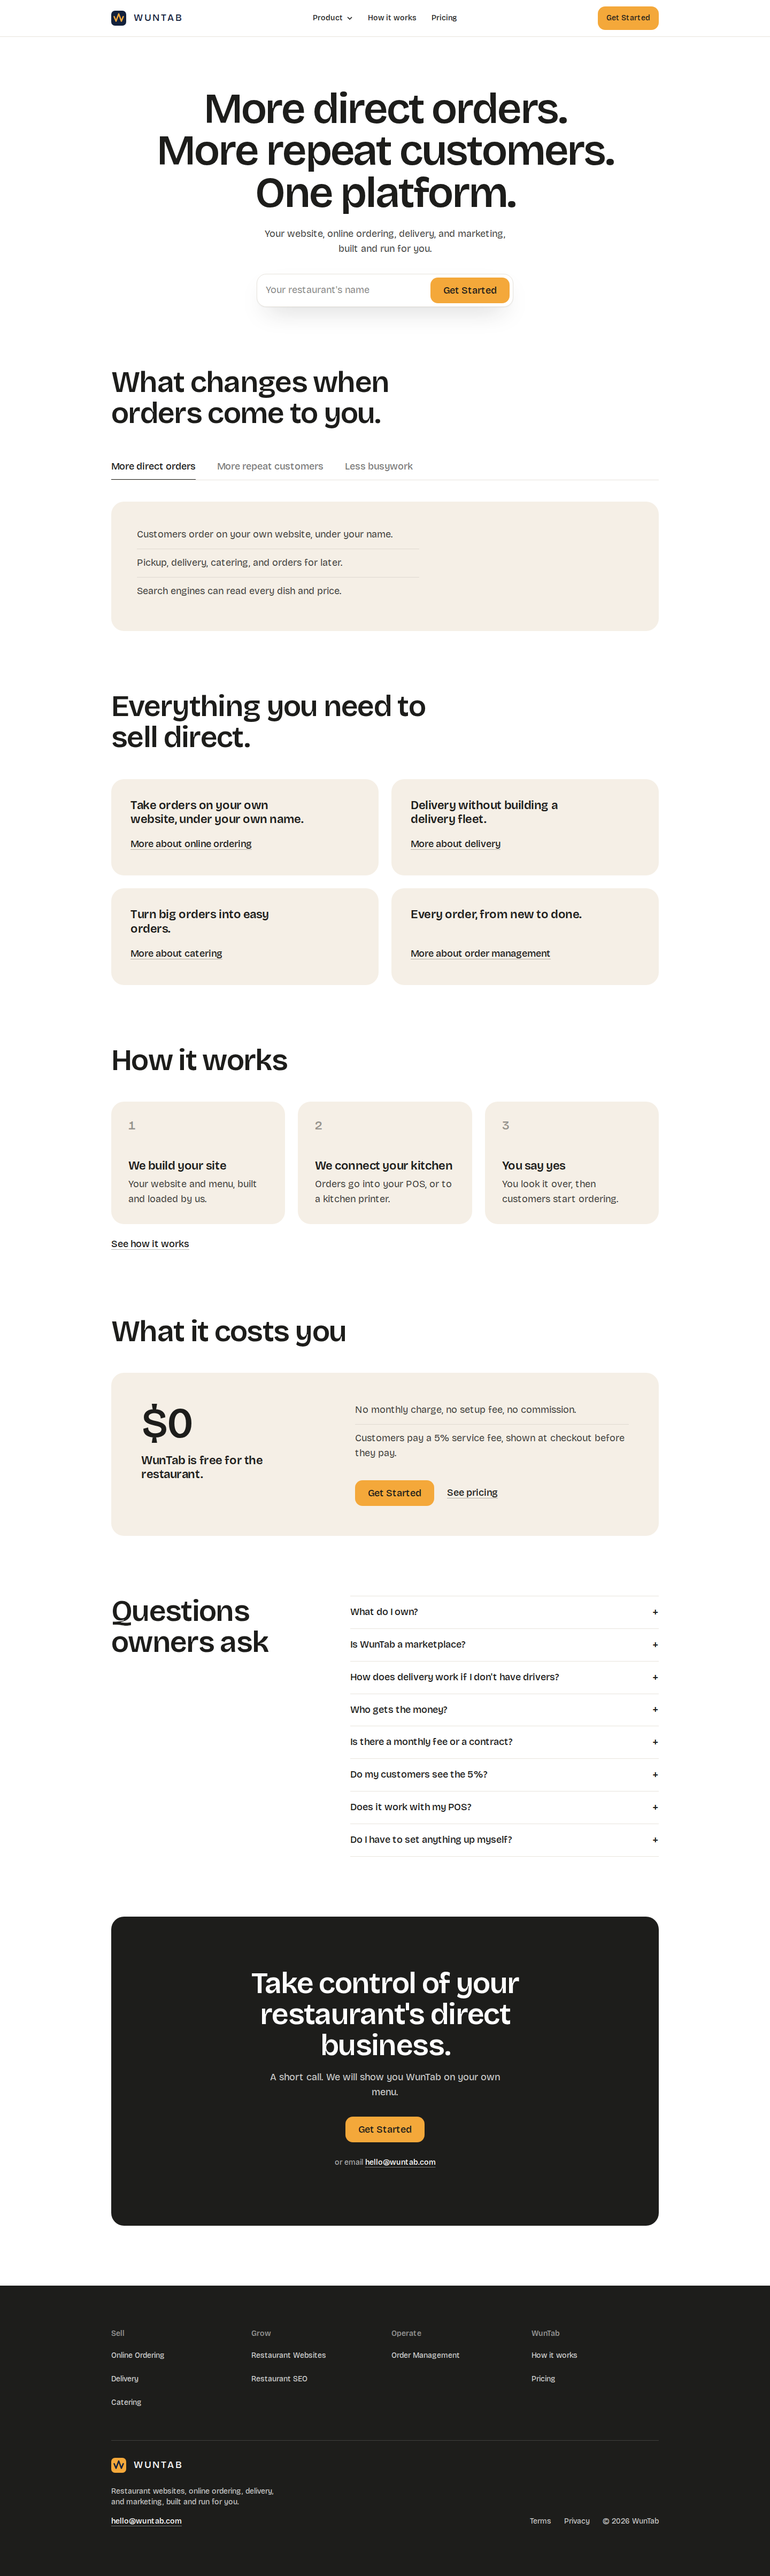
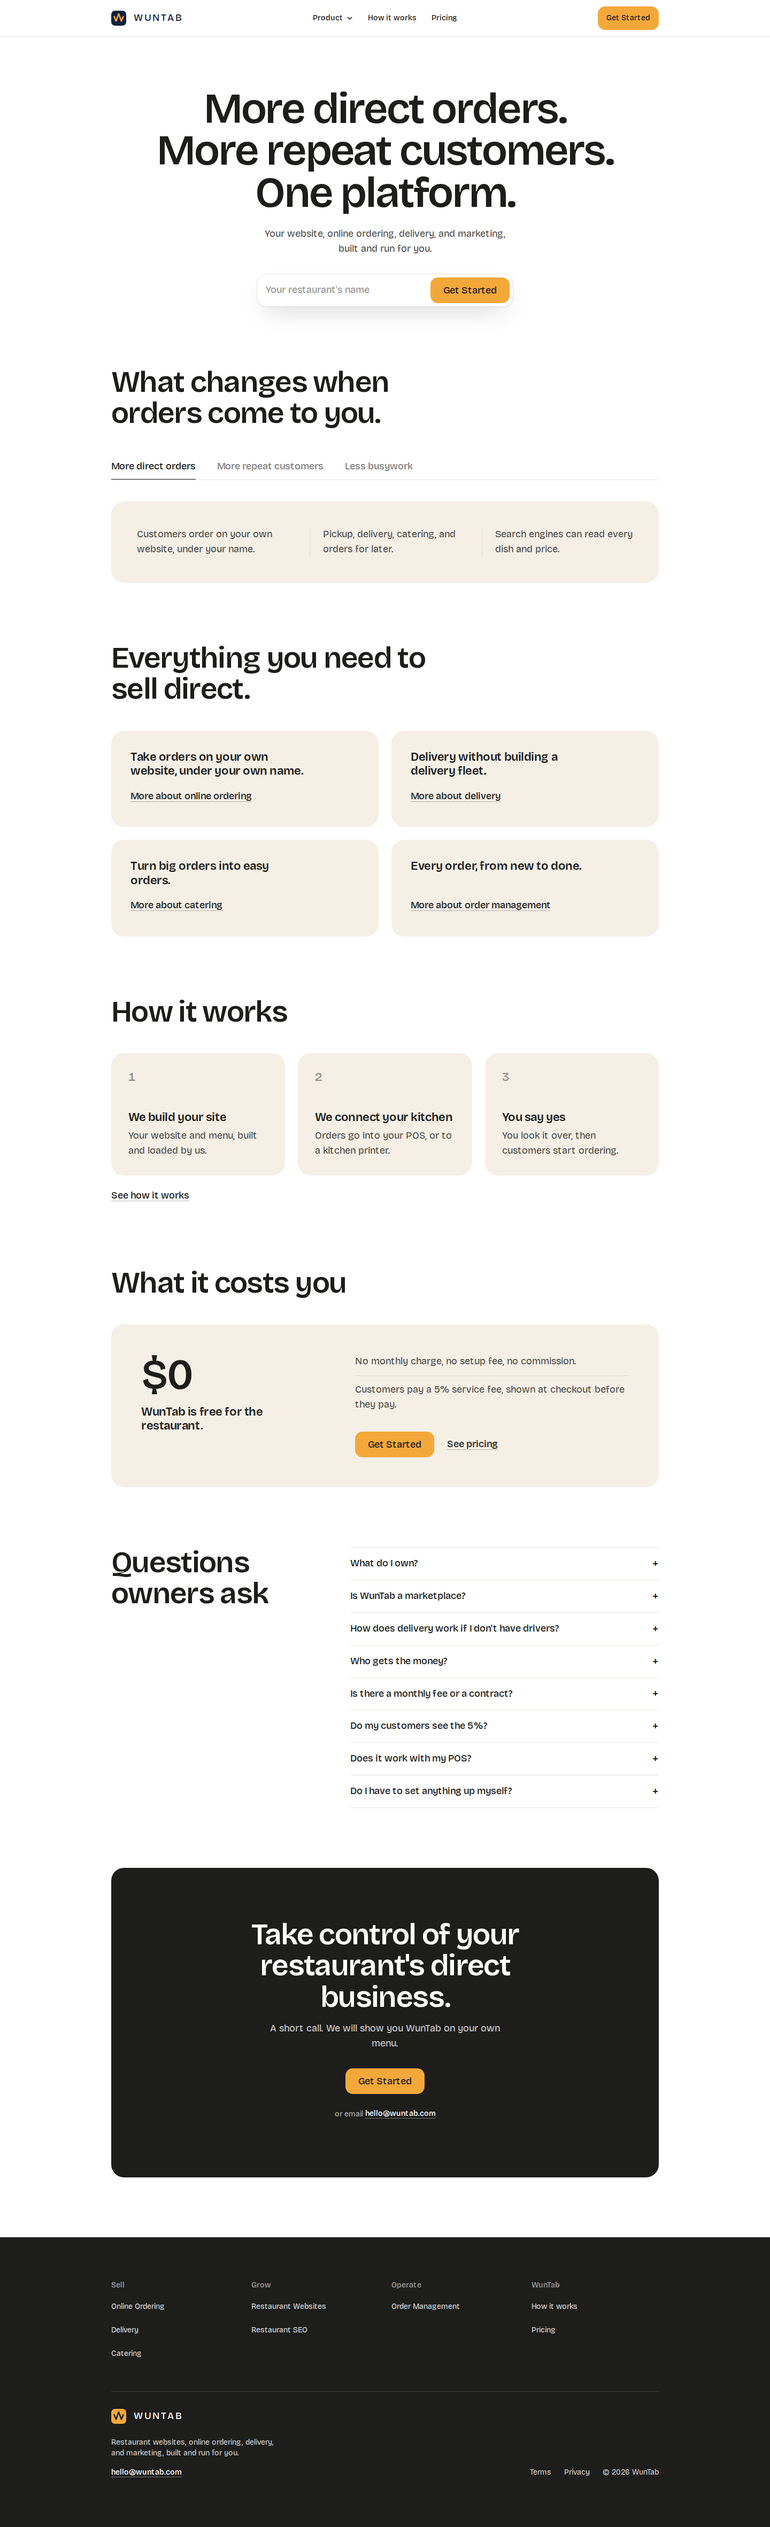
Outcome panels without a screenshot spread their lines across the panel
With no shot uploaded, the desktop outcome panel kept its lines in the
left half and left the right half blank. The lines now sit in three
columns across the panel until the screenshot exists. New test: with zero
shots, no panel is empty, no frame is left without an image, and outcome
lines fill their panel. Production evidence recaptured.

Claude-Session: https://claude.ai/code/session_01UZB8hyaQxnMWnWtoGGmC5B

diff --git a/tests/design.spec.ts b/tests/design.spec.ts
@@ -177,3 +177,31 @@ test("Get Started carries the restaurant name into Book a call", () => {
     "https://cal.example.com/wuntab?a1=Saffron",
   );
 });
+
+test("with no shots uploaded, no panel is empty and none keeps a gap for its image", async ({ page }) => {
+  for (const width of [390, 1440]) {
+    await page.setViewportSize({ width, height: 900 });
+    for (const path of pages) {
+      await page.goto(path);
+      // Hidden frames leave nothing behind: no empty figure, no placeholder.
+      expect(await page.locator("main figure:not(:has(img))").count(), `${path} at ${width}`).toBe(0);
+      // Every panel carries something to read.
+      const empty = await page.locator("main [class*='rounded-[20px]']").evaluateAll((els) =>
+        els.filter((el) => el.getBoundingClientRect().height > 0 && !el.textContent?.trim()).length,
+      );
+      expect(empty, `${path} at ${width}`).toBe(0);
+    }
+    // An outcome panel without its screenshot spreads its lines across the whole panel.
+    await page.goto("/");
+    for (const panel of await page.locator('[role="tabpanel"]:not(:has(figure))').all()) {
+      if (!(await panel.isVisible())) continue;
+      const fill = await panel.evaluate((el) => {
+        const list = el.querySelector("ul")!.getBoundingClientRect();
+        const style = getComputedStyle(el);
+        const inner = el.getBoundingClientRect().width - parseFloat(style.paddingLeft) - parseFloat(style.paddingRight);
+        return list.width / inner;
+      });
+      expect(fill, `outcome lines fill the panel at ${width}`).toBeGreaterThan(0.95);
+    }
+  }
+});

diff --git a/src/components/outcome-tabs.tsx b/src/components/outcome-tabs.tsx
@@ -116,9 +116,15 @@ export function OutcomeTabs({ tabs }: { tabs: OutcomeTab[] }) {
               index === active ? "" : "lg:hidden"
             } ${tab.visual ? "lg:grid lg:grid-cols-12 lg:items-center lg:gap-12" : ""}`}
           >
-            <ul className={tab.visual ? "lg:col-span-5" : "max-w-[44ch]"}>
+            {/* No screenshot yet: the lines spread across the panel instead of leaving its right half empty. */}
+            <ul className={tab.visual ? "lg:col-span-5" : "lg:grid lg:grid-cols-3 lg:gap-10"}>
               {tab.lines.map((line) => (
-                <li key={line} className="border-t border-ink/10 py-3 text-body text-ink/85 first:border-t-0 first:pt-0">
+                <li
+                  key={line}
+                  className={`border-t border-ink/10 py-3 text-body text-ink/85 first:border-t-0 first:pt-0 ${
+                    tab.visual ? "" : "lg:border-t-0 lg:border-l lg:py-0 lg:pl-6 lg:first:border-l-0 lg:first:pl-0"
+                  }`}
+                >
                   {line}
                 </li>
               ))}

diff --git a/docs/marketing-site/evidence/design-pass/README.md b/docs/marketing-site/evidence/design-pass/README.md
@@ -14,7 +14,7 @@ There are two builds of each, because `public/shots/` is still empty:
 | Preview | 390 | 19,989px | 4,784px |
 | Preview | 1440 | 14,450px | 6,242px |
 | Production | 390 | 14,472px | 4,071px |
-| Production | 1440 | 11,660px | 4,817px |
+| Production | 1440 | 11,660px | 4,727px |
 
 Once real shots replace the placeholders, the homepage will sit near the preview figures. Target: under 10,000px at 390, checked by `tests/design.spec.ts`.
 
